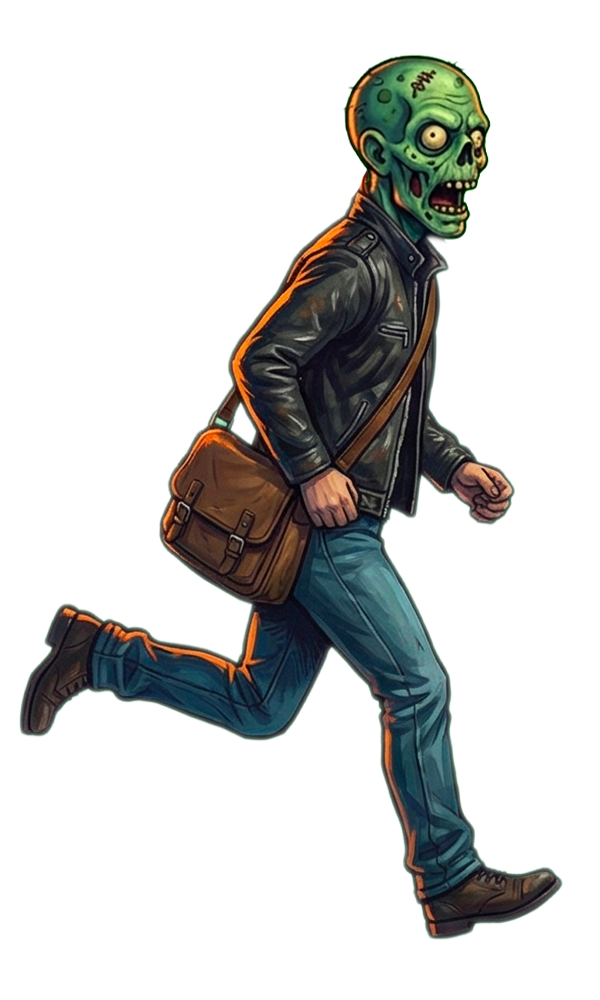
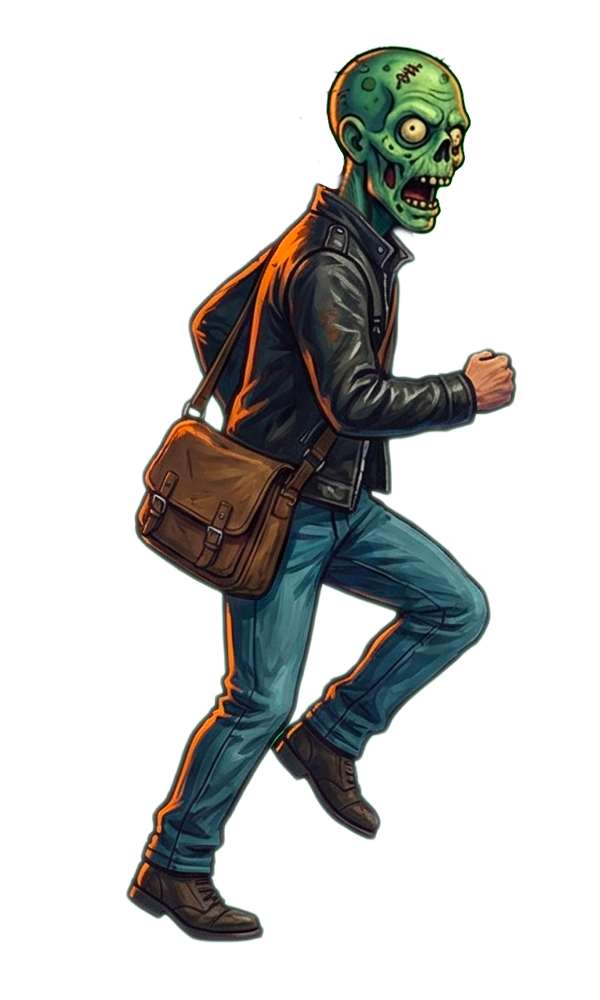
aggiunto posizionamento casuale oggetti statici e sprite maskedZombie2

diff --git a/globalGameJam/src/main/java/it/gamejam/truncate/bubblenap/core/objects/StaticObjectSpawner.java b/globalGameJam/src/main/java/it/gamejam/truncate/bubblenap/core/objects/StaticObjectSpawner.java
@@ -12,9 +12,9 @@ public class StaticObjectSpawner {
   private final Random random = new Random();
   private long lastSpawn;
 
-  public StaticObjectSpawner(StaticObjectFactory factory, long spawnIntervalMs) {
+  public StaticObjectSpawner(StaticObjectFactory factory) {
     this.factory = factory;
-    this.spawnIntervalMs = spawnIntervalMs;
+    this.spawnIntervalMs = 4000L;
     this.staticObjectTypes = Arrays.asList(StaticObjectType.values());
   }
 
@@ -23,6 +23,7 @@ public class StaticObjectSpawner {
     if (now - lastSpawn < spawnIntervalMs) return;
     StaticObjectType type = staticObjectTypes.get(random.nextInt(staticObjectTypes.size()));
     factory.spawn(type, gameManager::addMovingObject);
+    spawnIntervalMs = random.nextInt(3, 6) * 1000L;
     lastSpawn = now;
   }
 }

diff --git a/globalGameJam/src/main/java/it/gamejam/truncate/bubblenap/core/objects/StaticObjectFactory.java b/globalGameJam/src/main/java/it/gamejam/truncate/bubblenap/core/objects/StaticObjectFactory.java
@@ -21,8 +21,8 @@ public class StaticObjectFactory {
 
   private void registerDefaults() {
     register(StaticObjectType.GARBAGE, (x, y) ->{
-          // y = ThreadLocalRandom.current().nextInt(500, 800);
-          return new Garbage(x, y, 140, 220, DX,1.0);
+          y += (int)(Math.random() * 120 - 60);
+          return new Garbage(x, y, 70, 70, DX,1.0);
     });
   }
 
@@ -37,8 +37,8 @@ public class StaticObjectFactory {
 
   public void spawn(StaticObjectType type, Consumer<MovingObject> consumer) {
     int x = 1500;
-    int y = 700;
-    MovingObject obj = create(type, x, y);
+    int y = 600;
+    MovingObject obj = create(type, x,y);
     consumer.accept(obj);
   }
 }

diff --git a/globalGameJam/src/main/java/it/gamejam/truncate/bubblenap/core/GameManager.java b/globalGameJam/src/main/java/it/gamejam/truncate/bubblenap/core/GameManager.java
@@ -42,7 +42,7 @@ public class GameManager {
 		try {
 			enemyFactory = new EnemyFactory();
 			staticObjectFactory = new StaticObjectFactory();
-			staticObjectSpawner = new StaticObjectSpawner(staticObjectFactory, 7000);
+			staticObjectSpawner = new StaticObjectSpawner(staticObjectFactory);
 			enemySpawner = new EnemySpawner(enemyFactory);
 			classifier= new DJLWebcamClassifier(this);
 		} catch (Exception e) {

diff --git a/globalGameJam/src/main/java/it/gamejam/truncate/bubblenap/core/objects/AbstractStaticObject.java b/globalGameJam/src/main/java/it/gamejam/truncate/bubblenap/core/objects/AbstractStaticObject.java
@@ -26,6 +26,6 @@ public class AbstractStaticObject extends MovingObject {
   }
 
   private void resizeImage() {
-    scaledInstance = image.getScaledInstance(120, 120, Image.SCALE_SMOOTH);
+    scaledInstance = image.getScaledInstance(this.width, this.height, Image.SCALE_SMOOTH);
   }
 }
